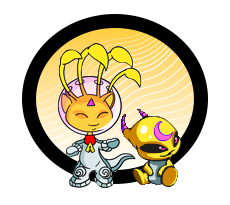
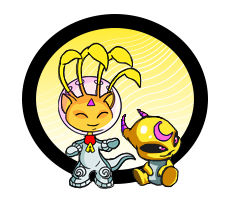
v

diff --git a/personal/user-lookup/style.css b/personal/user-lookup/style.css
@@ -609,6 +609,14 @@ a.ul--petname {
 
 /* ====================== PET OVERLAYS ======================= */
 
+img[src*="kacheek_msp"] {
+    content: url(https://decygn.github.io/gc-cyde/personal/user-lookup/pet-overlays/msp_kacheek.png);
+}
+
+img[src*="poogle_msp"] {
+    content: url(https://decygn.github.io/gc-cyde/personal/user-lookup/pet-overlays/msp_poogle.png);
+}
+
 img[src*="aisha_msp"] {
     content: url(https://decygn.github.io/gc-cyde/personal/user-lookup/pet-overlays/msp_aisha.png);
 }
